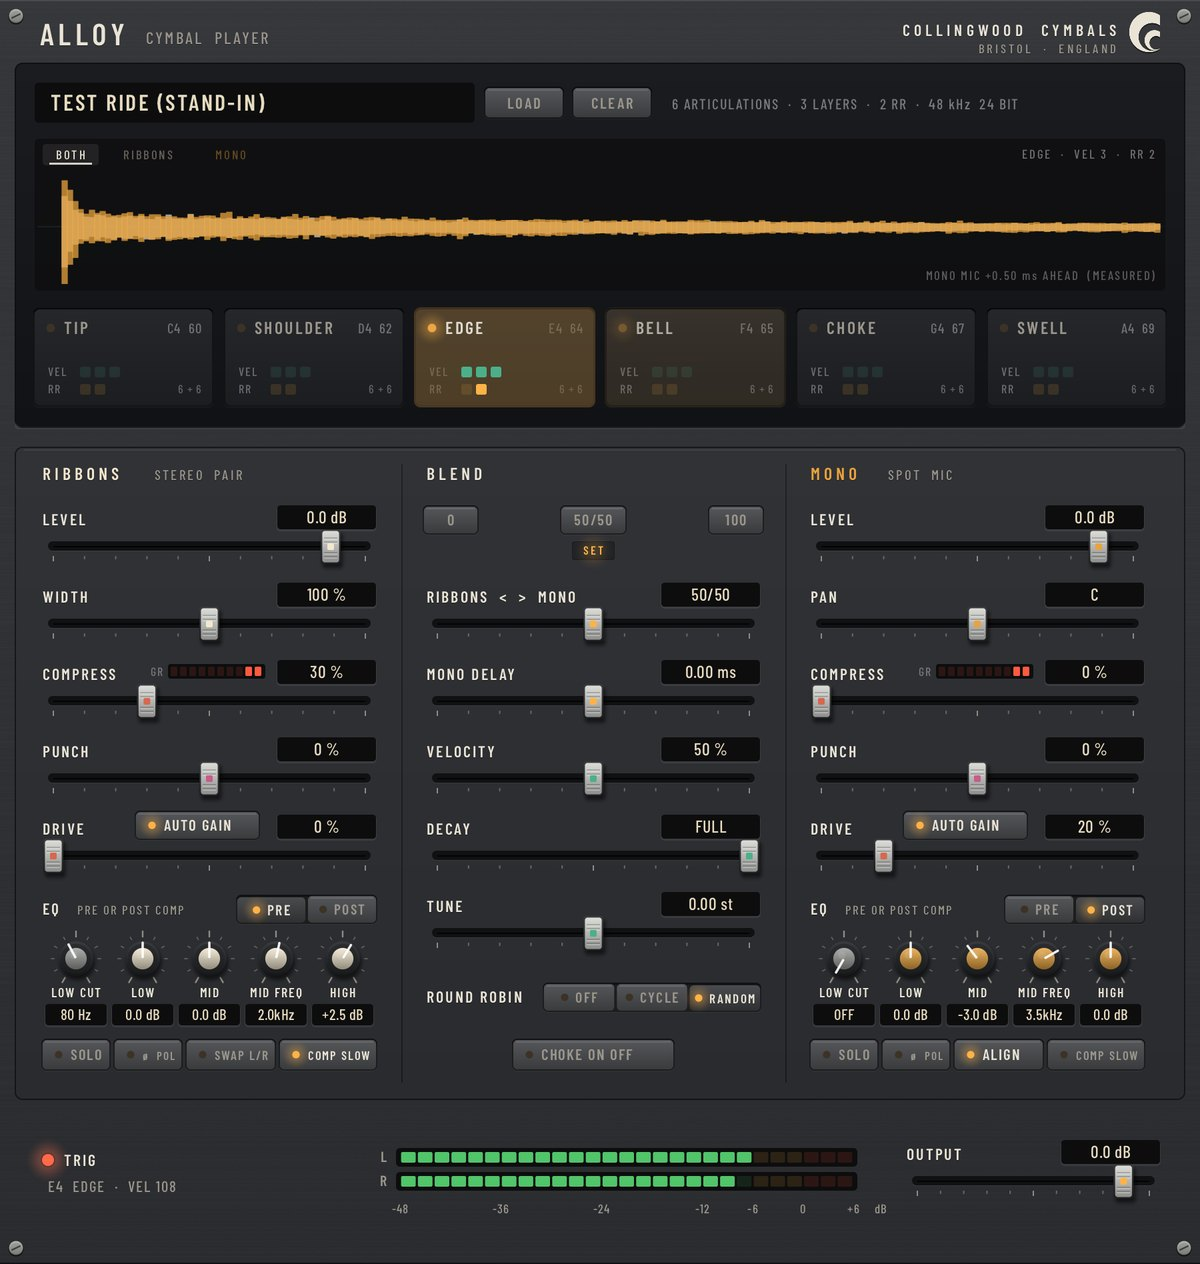
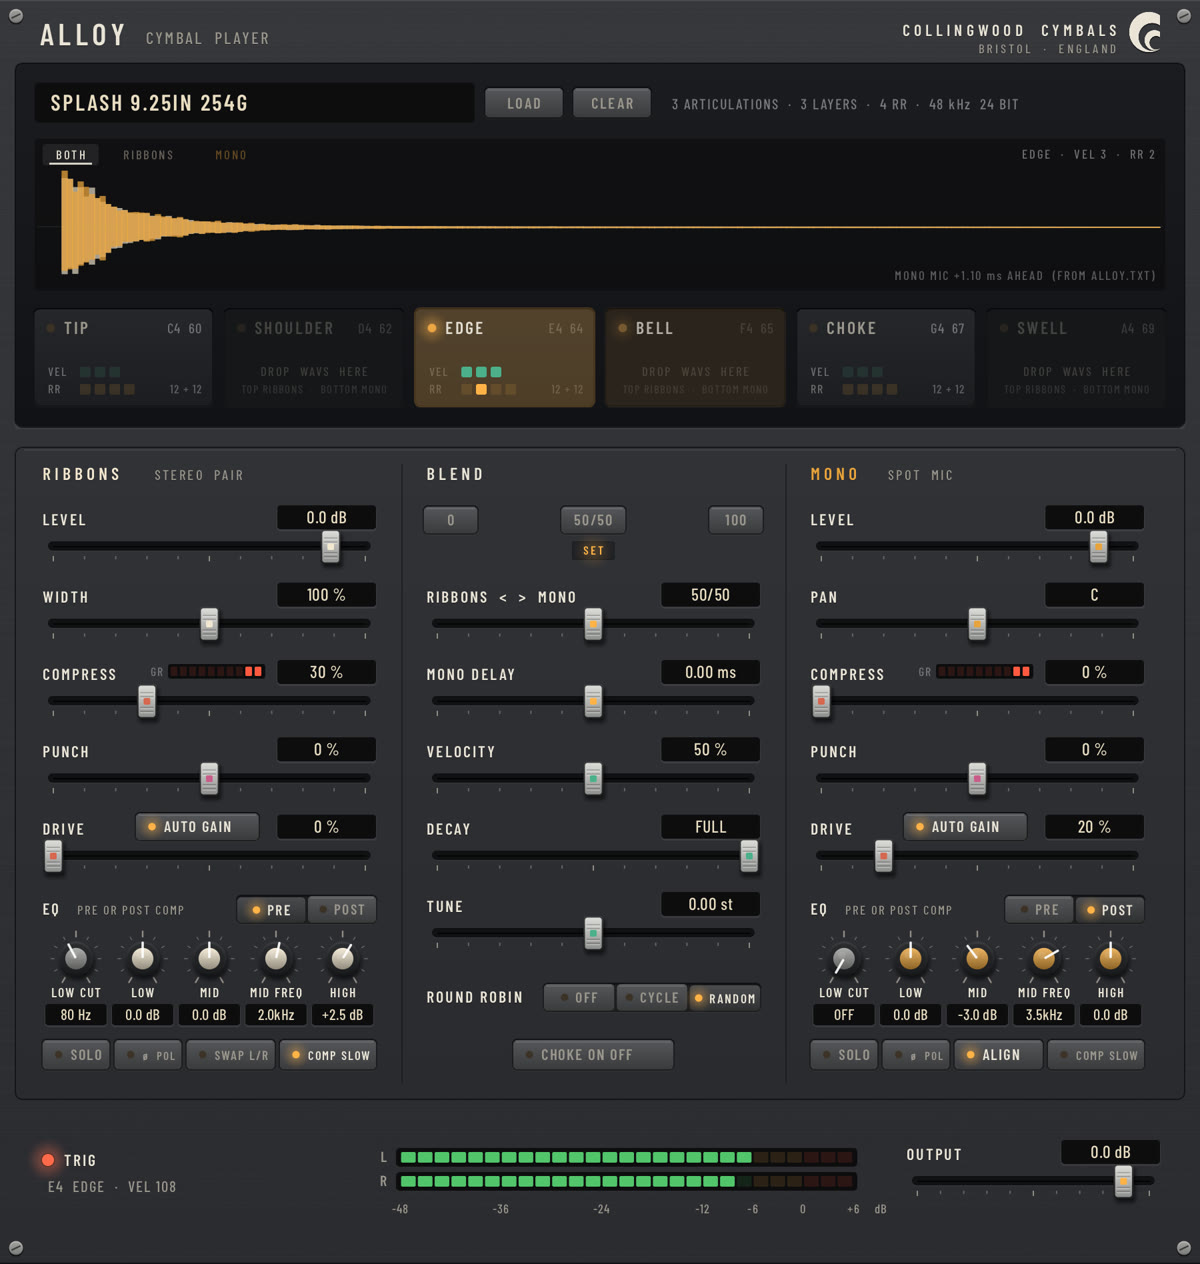
Alloy 1.0 replaces 0.6: downloads, panel image, Updated note; Splash Trio note points to 1.0
Claude-Session: https://claude.ai/code/session_016JXowSgdLph95ky1tddbuj

diff --git a/index.html b/index.html
@@ -249,6 +249,10 @@ footer .wrap{display:flex;flex-wrap:wrap;gap:12px 30px;justify-content:space-bet
 .trio-list{margin:0 0 18px;padding-left:20px;color:#d6cec2;line-height:1.7}
 .trio-cover{width:120px;height:120px;border-radius:8px;border:1px solid #000;float:right;margin:0 0 12px 16px}
 .trio-note{background:var(--panel);border:1px solid var(--line);border-radius:10px;padding:14px 16px;font-size:14px;color:#cfc7bb;margin-top:18px}
+.upd-badge{display:inline-block;margin:0 0 18px 8px;color:var(--text);text-decoration:none;font-size:13px}
+.upd-badge:hover{color:var(--bronze2)}
+.upd-box{background:var(--panel);border:1px solid var(--bronze);border-radius:10px;padding:16px 20px;margin:0 0 18px;color:#d6cec2;font-size:15px}
+.upd-box ul{margin:8px 0;padding-left:20px}
 </style>
 </head>
 <body>
@@ -275,6 +279,7 @@ footer .wrap{display:flex;flex-wrap:wrap;gap:12px 30px;justify-content:space-bet
     <div>
       <div class="kicker spaced">Collingwood Cymbals · Bristol</div>
       <span class="free-tag">Free plugin · Windows &amp; Mac · no sign-up</span>
+      <a class="upd-badge" href="#updated"><span class="new-tag">Updated</span> Alloy 1.0 is out</a>
       <h1>Alloy. A free cymbal plugin with <em>real hand-hammered</em> hits.</h1>
       <p class="lead">I make cymbals by hand in my Bristol workshop. Alloy is a free plugin that plays recordings of them inside music software such as Logic, Cubase, Reaper or Ableton. Every hit is recorded on a stereo ribbon pair and a mono mic, and one fader blends between the two.</p>
       <ul class="hero-list">
@@ -333,7 +338,7 @@ footer .wrap{display:flex;flex-wrap:wrap;gap:12px 30px;justify-content:space-bet
         <a class="btn" href="https://github.com/CollingwoodCymbals/cymbalsamples/releases/download/splash-trio/Collingwood-Splash-Trio.zip" download>Download the Splash Trio <small>121 MB</small></a>
       </div>
       <p class="fine">In Alloy, press LOAD and pick one cymbal's folder, or drag the folder onto Alloy.</p>
-      <div class="trio-note"><b>Alloy 1.0 is on the way.</b> It's what you see in the videos: where you click on a pad now sets how hard it plays. Until then the pack plays in <a href="#download">Alloy 0.6</a>, free for Windows and Mac.</div>
+      <div class="trio-note"><b>Made for Alloy 1.0</b>, which is what you see in the videos. <a href="#download">Get Alloy 1.0 free</a> for Windows and Mac.</div>
     </div>
   </div>
 </section>
@@ -437,18 +442,26 @@ footer .wrap{display:flex;flex-wrap:wrap;gap:12px 30px;justify-content:space-bet
       <h2>Get Alloy and the example hits</h2>
       <p>No sign-up, no catch. The hits are plain WAV files, so they work in any DAW or sampler too. Alloy is just the easy way to blend the two mics.</p>
     </div>
+    <div class="upd-box" id="updated">
+      <div><span class="new-tag">Updated</span> <b>Alloy has been updated to 1.0.</b> Still free, for Windows and Mac.</div>
+      <ul>
+        <li>Click high on a pad for a loud hit, low for a soft one</li>
+        <li>Pads with no hits in the loaded pack are greyed out</li>
+      </ul>
+      <div>On an older Alloy? Download 1.0 below and put it in place of the old one. From 0.4 on, Alloy's own update light will tell you too.</div>
+    </div>
     <div class="dl-grid">
       <div class="card">
         <h3>Alloy for Windows</h3>
-        <div class="meta">Version 0.6 · VST3 · 64-bit · 1 MB</div>
+        <div class="meta">Version 1.0 · VST3 · 64-bit · 1 MB</div>
         <p>For Reaper, Cubase, Studio One, Ableton Live, FL Studio and any other VST3 host.</p>
-        <a class="btn" href="https://github.com/CollingwoodCymbals/cymbalsamples/releases/download/alloy-0.6/Alloy-0.6-Windows.zip" download>Download for Windows</a>
+        <a class="btn" href="https://github.com/CollingwoodCymbals/cymbalsamples/releases/download/alloy-1.0/Alloy-1.0-Windows.zip" download>Download for Windows</a>
       </div>
       <div class="card">
         <h3>Alloy for Mac</h3>
-        <div class="meta">Version 0.6 · AU + VST3 · Apple silicon &amp; Intel · macOS 10.15+ · 2 MB</div>
+        <div class="meta">Version 1.0 · AU + VST3 · Apple silicon &amp; Intel · macOS 10.15+ · 2 MB</div>
         <p>Audio Unit instrument for Logic Pro and GarageBand, plus a VST3 for other hosts. Signed and notarised by Apple.</p>
-        <a class="btn" href="https://github.com/CollingwoodCymbals/cymbalsamples/releases/download/alloy-0.6/Alloy-0.6-Mac.zip" download>Download for Mac</a>
+        <a class="btn" href="https://github.com/CollingwoodCymbals/cymbalsamples/releases/download/alloy-1.0/Alloy-1.0-Mac.zip" download>Download for Mac</a>
       </div>
       <div class="card">
         <h3>Alloy Test 1 hits</h3>
@@ -458,8 +471,8 @@ footer .wrap{display:flex;flex-wrap:wrap;gap:12px 30px;justify-content:space-bet
       </div>
     </div>
 
-    <p class="upd">Alloy is in early testing. <a href="#signup">Join the mailing list</a> for news.</p>
-    <p class="upd"><a href="downloads/Alloy-0.6-manual.pdf">Read the Alloy manual (PDF)</a>. It's also inside both downloads.</p>
+    <p class="upd"><a href="#signup">Join the mailing list</a> for news of new releases.</p>
+    <p class="upd"><a href="downloads/Alloy-0.6-manual.pdf">Read the Alloy manual (PDF)</a>.</p>
     <p class="upd">Alloy checks once a day for a newer version and tells you on its panel. It never sends anything about you.</p>
 
     <details class="inst">
